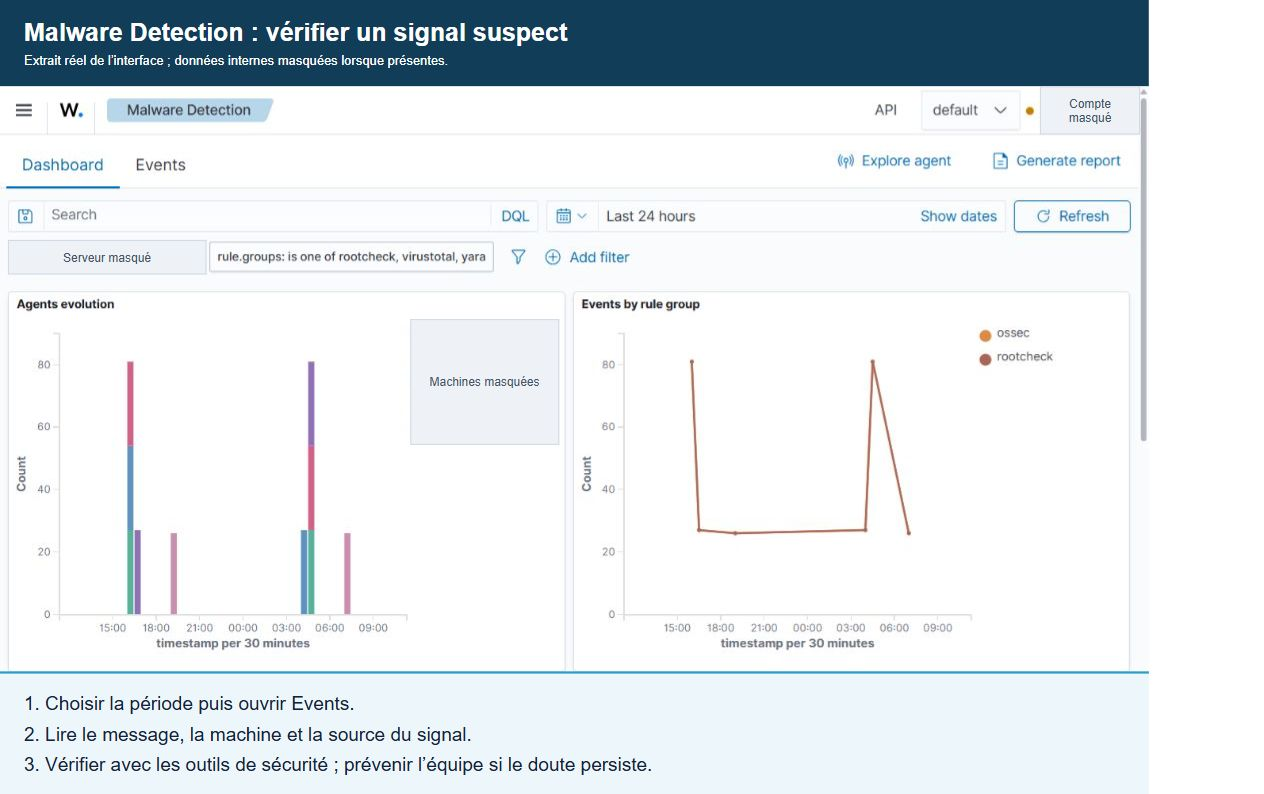
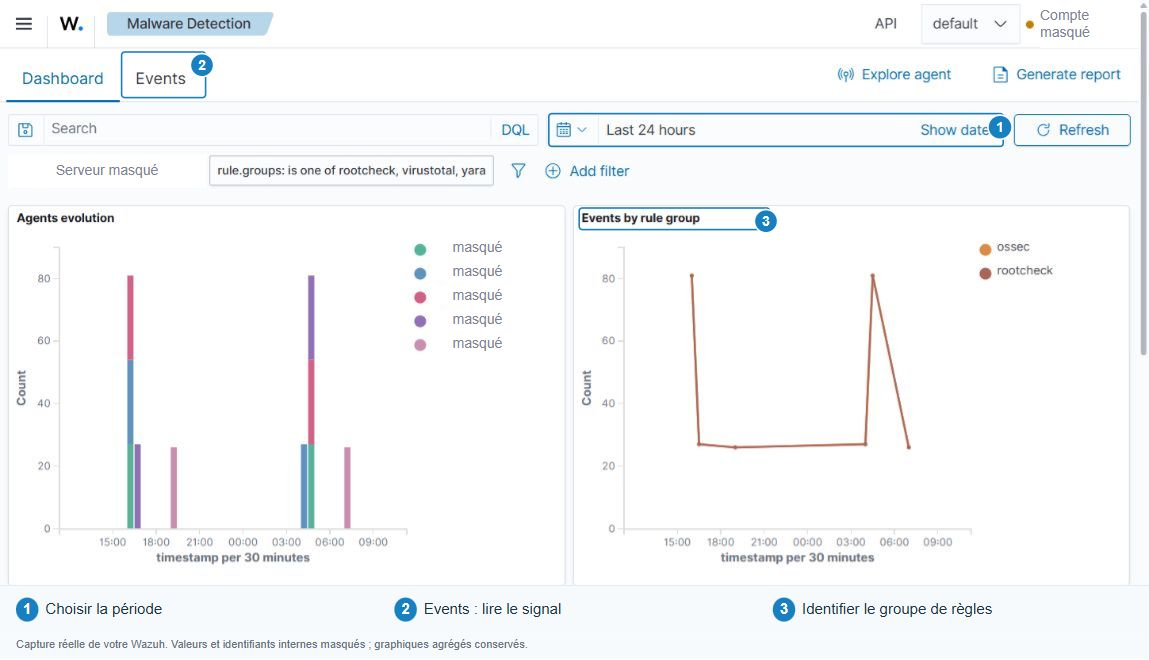
Améliorer le cadrage des captures et ajouter des repères numérotés

diff --git a/README.md b/README.md
@@ -37,18 +37,24 @@ Pour débuter, suivez le parcours avec des exemples fictifs, puis utilisez le gu
 
 ## Captures de l'interface
 
-Captures réelles réalisées le 12 octobre 2026, vérifiées visuellement après export. Chaque image comporte un titre et trois explications simples. Les vues Threat Hunting et Vulnerability Detection assemblent le haut de la page et ses graphiques après défilement ; ce montage est indiqué dans l'image. Les comptes, identifiants et volumes principaux sont masqués, et les lignes détaillées de vulnérabilités sont exclues. Les graphiques agrégés restent visibles. Cliquez sur une image pour l'afficher en grand.
+Captures réelles réalisées le 12 octobre 2026, vérifiées visuellement après export. Les repères bleus **1, 2 et 3** indiquent les commandes ou panneaux à lire ; leur légende se trouve sous chaque image. Les masques couvrent les valeurs et identifiants internes sans cacher les intitulés des cartes. Les vues Threat Hunting et Vulnerability Detection assemblent le haut de la page et ses graphiques après défilement ; ce montage est indiqué dans l'image. Les lignes détaillées de vulnérabilités sont exclues. Les graphiques agrégés restent visibles. Cliquez sur une image pour l'afficher en grand.
 
 **Traduction des boutons :** Dashboard = vue d'ensemble ; Events = liste des événements ; Inventory = inventaire ; Add filter = ajouter un filtre ; Refresh = actualiser ; Last 24 hours = dernières 24 heures.
 
 ### Threat Hunting
 ![Onglets et filtres de Threat Hunting](assets/screenshots/threat-hunting.jpg)
+
+**Repères :** **1** choisit la période ; **2** ouvre les événements ; **3** permet de filtrer une machine.
+
 **À faire :** choisissez une période, cliquez sur **Events**, puis recherchez une machine. Ouvrez un événement et lisez son heure et son message. Vérifiez avec l'utilisateur ou l'administrateur si l'activité était prévue.
 
 **À regarder :** un pic dans le graphique indique davantage d'alertes à ce moment. Le graphique circulaire présente les techniques associées aux alertes. Un pic n'est pas une preuve d'attaque, et une alerte peut être associée à plusieurs techniques.
 
 ### Vulnerability Detection
 ![Onglets de Vulnerability Detection](assets/screenshots/vulnerability-detection.jpg)
+
+**Repères :** **1** ouvre Inventory ; **2** montre les catégories de sévérité à examiner en premier ; **3** permet d'affiner les résultats.
+
 **À faire :** cliquez sur **Inventory**, filtrez les résultats **Critical** ou **High**, puis ouvrez le détail d'une ligne. Repérez la machine, le logiciel, sa version et la CVE. Vérifiez le correctif dans l'avis de l'éditeur et faites appliquer la mise à jour selon la procédure habituelle. Revenez ensuite vérifier le résultat.
 
 **À regarder :** Critical = critique ; High = élevée ; Medium = moyenne ; Low = faible. La gravité aide à choisir par où commencer, mais une machine exposée ou importante peut être prioritaire.
@@ -58,12 +64,18 @@ Captures réelles réalisées le 12 octobre 2026, vérifiées visuellement aprè
 
 ### Malware Detection
 ![Commandes de Malware Detection](assets/screenshots/malware-detection.jpg)
+
+**Repères :** **1** choisit la période ; **2** ouvre les événements ; **3** montre leur répartition par groupes de règles.
+
 **À faire :** choisissez la période et cliquez sur **Events**. Ouvrez une alerte, lisez la machine, l'heure et le message, puis identifiez la source du signal. Faites vérifier le fichier ou l'activité avec les outils de sécurité de l'organisation ; prévenez l'équipe responsable si le doute persiste.
 
 **À regarder :** les graphiques montrent quand les signaux apparaissent et à quels groupes de règles ils appartiennent. Rootcheck recherche des anomalies ; YARA et VirusTotal sont des intégrations possibles qui nécessitent une configuration. Ne supprimez pas un fichier sur la seule base du graphique.
 
 ### MITRE ATT&CK
 ![Onglets de MITRE ATT&CK](assets/screenshots/mitre-attack.jpg)
+
+**Repères :** **1** ouvre Framework ; **2** ouvre les événements ; **3** présente les tactiques associées aux alertes.
+
 **À faire :** ouvrez **Framework** pour découvrir une technique, puis **Events** pour lire les alertes associées. Regardez le message et le contexte de la machine avant de conclure.
 
 **À comprendre :** une tactique est un objectif, par exemple rester sur une machine. Une technique est le moyen utilisé pour y parvenir. MITRE ATT&CK donne un vocabulaire commun pour expliquer les comportements ; il ne bloque pas les attaques.
